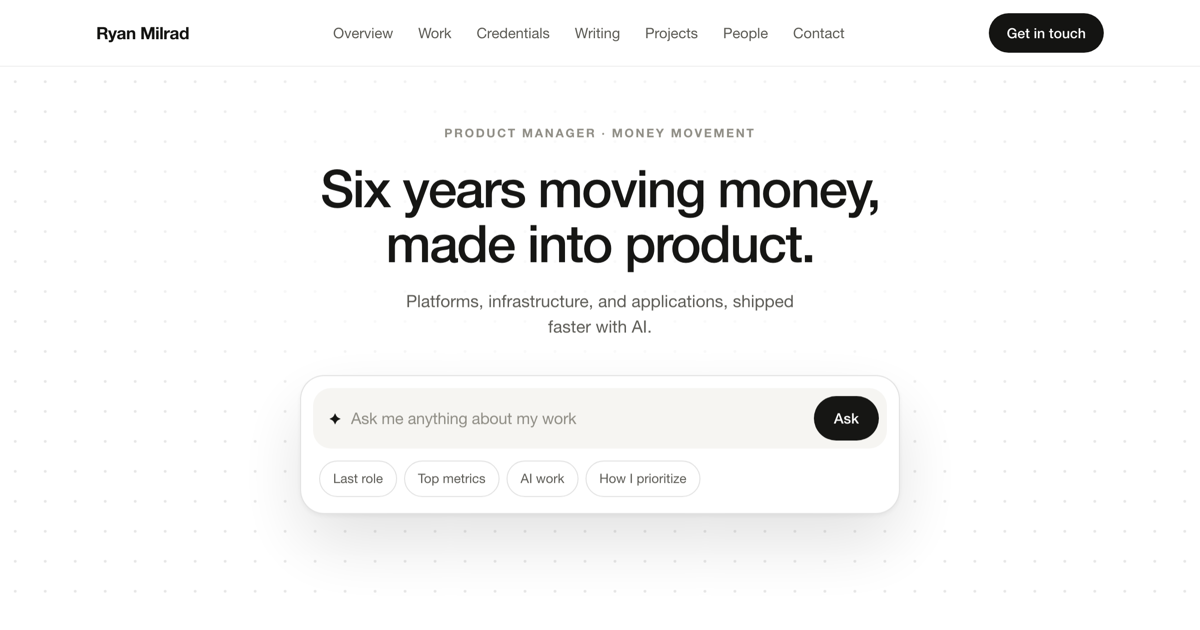
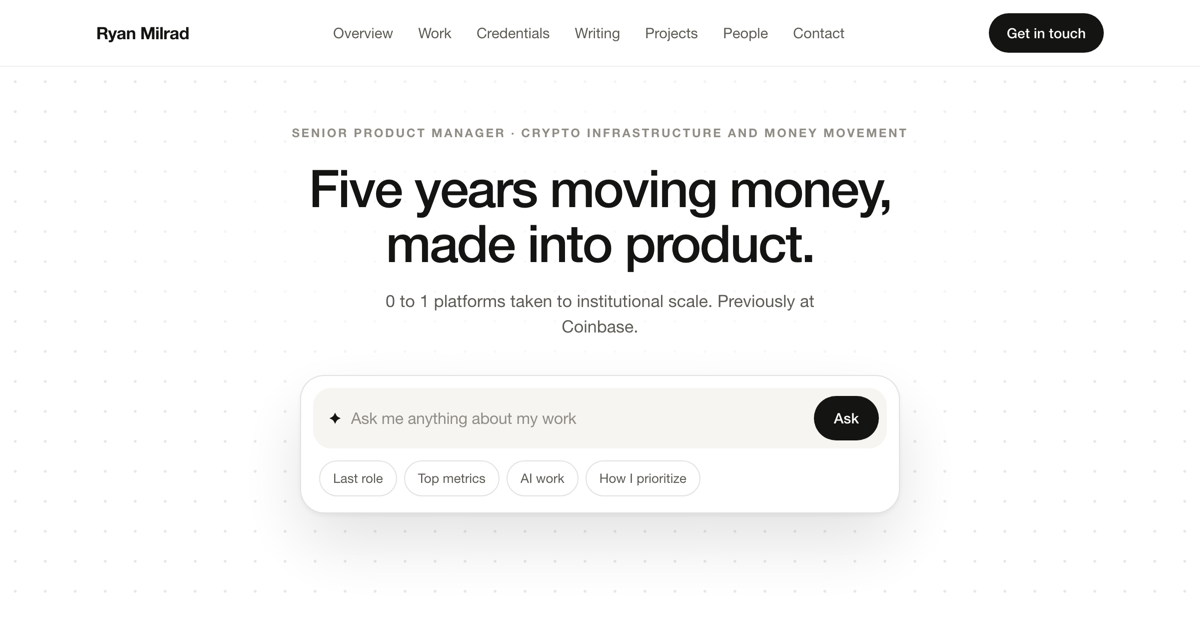
Sync site to revamped LinkedIn positioning
Audit-driven consistency pass so the site matches the new profile:
- Positioning: hero, role, meta all now Senior Product Manager, crypto
  infrastructure and money movement, 0 to 1 to institutional scale,
  ex Coinbase. Regenerated the og:image share card to match.
- Numbers: five years (was six), Hemi acquisition 100K (was 200K),
  MiCA users 1.3M (was 1M+).
- Framing: removed "payments" and all "consumer app(s)" phrasing from
  the ask-box brain and work history; projects reframed as independent
  product development.
- Target: contact statement now "senior product role in crypto,
  fintech, or money movement."

Changed region(s): [[0.2467, 0.2714, 0.74, 0.3619], [0.2467, 0.181, 0.74, 0.2413], [0.3083, 0.4524, 0.6783, 0.5429]]

diff --git a/src/lib/assistant.ts b/src/lib/assistant.ts
@@ -22,7 +22,7 @@ type Entry = { k: string[]; a: string };
 const KB: Entry[] = [
   {
     k: ["who are", "yourself", "summary", "bio", "background", "introduce"],
-    a: "I'm Ryan, a product manager with **6+ years** across crypto infrastructure, payments, and fintech.\n\nBefore tech I was a professional chef. Then a computer science degree, then years living and working abroad, where I learned Spanish to fluency, which is how I met my wife. That path shows in how I work: calm under pressure, sharp communication, and an engineer's curiosity.\n\nMost recently at Coinbase I owned the core staking platform, the orchestration service moving customer funds from off chain to on chain across **8 assets**.",
+    a: "I'm Ryan, a senior product manager with **five years** across crypto infrastructure, money movement, and fintech.\n\nBefore tech I was a professional chef. Then a computer science degree, then years living and working abroad, where I learned Spanish to fluency, which is how I met my wife. That path shows in how I work: calm under pressure, sharp communication, and an engineer's curiosity.\n\nMost recently at Coinbase I owned the core staking platform, the orchestration service moving customer funds from off chain to on chain across **8 assets**.",
   },
   {
     k: ["last role", "current", "recent", "latest", "coinbase", "most recent", "staking"],
@@ -30,7 +30,7 @@ const KB: Entry[] = [
   },
   {
     k: ["metric", "impact", "number", "result", "achievement", "impactful", "proud", "top"],
-    a: "The numbers I'm proudest of:\n- **$15B** in assets migrated to new key management infrastructure\n- **$4.5B** in ETF funds flow, **$1B** of it in one launch's first 24 hours\n- **$24M** in live funds migrated in a single day by reframing a 16 week build\n- **$1B+** liquidity attracted to Hemi across **60+** integrations\n- **$180M** in at risk funds surfaced and recovered\n- **62%** faster integrations with an agentic MCP, **75%** with an LLM runbook\n- **0 to 200K+** users on Hemi's consumer apps",
+    a: "The numbers I'm proudest of:\n- **$15B** in assets migrated to new key management infrastructure\n- **$4.5B** in ETF funds flow, **$1B** of it in one launch's first 24 hours\n- **$24M** in live funds migrated in a single day by reframing a 16 week build\n- **$1B+** liquidity attracted to Hemi across **60+** integrations\n- **$180M** in at risk funds surfaced and recovered\n- **62%** faster integrations with an agentic MCP, **75%** with an LLM runbook\n- **0 to 100K+** users on Hemi's user facing apps",
   },
   {
     k: ["compan", "where", "worked", "history", "experience", "career"],
@@ -58,11 +58,11 @@ const KB: Entry[] = [
   },
   {
     k: ["hemi", "bridge", "tunnel", "l2", "launch", "liquidity", "cross chain", "wallet", "tvl"],
-    a: "At **Hemi**, a Bitcoin L2, I grew from PM to Senior PM owning the consumer surface and the bridge:\n- Drove **0 to 200K+** active accounts in six months\n- Led the cross chain bridge end to end: **$500M** facilitated in 2 weeks, **$1B+ TVL** within 3 months\n- The network launch attracted **$1B** in liquidity in 4 weeks across **60+** DeFi integrations\n- Lifted participation from **73% to 95%** with a proof of personhood app",
+    a: "At **Hemi**, a Bitcoin L2, I grew from PM to Senior PM owning the user facing surface and the bridge:\n- Drove **0 to 100K+** active accounts in six months\n- Led the cross chain bridge end to end: **$500M** facilitated in 2 weeks, **$1B+ TVL** within 3 months\n- The network launch attracted **$1B** in liquidity in 4 weeks across **60+** DeFi integrations\n- Lifted participation from **73% to 95%** with a proof of personhood app",
   },
   {
     k: ["miner", "pop", "wasm", "funnel", "drop off", "declin", "data story"],
-    a: "My favorite data story: a first of its kind consumer mining app, **2,000** daily users, participation declining **5%** week over week with no clear cause.\n\nCommunity feedback generated the hypotheses; funnel data told me which ones mattered. We shipped three fixes: wallet balance visibility, session reuse, and a clear path to starting funds. The decline reversed and the app peaked at **100K** unique miners, at one point **93%** of Bitcoin testnet3 traffic.\n\nFeedback tells you what hurts. Data tells you whether it matters.",
+    a: "My favorite data story: a first of its kind mining app, **2,000** daily users, participation declining **5%** week over week with no clear cause.\n\nCommunity feedback generated the hypotheses; funnel data told me which ones mattered. We shipped three fixes: wallet balance visibility, session reuse, and a clear path to starting funds. The decline reversed and the app peaked at **100K** unique miners, at one point **93%** of Bitcoin testnet3 traffic.\n\nFeedback tells you what hurts. Data tells you whether it matters.",
   },
   {
     k: ["sybil", "bot", "verification", "personhood", "demos", "integrity", "wau"],

diff --git a/src/data/profile.ts b/src/data/profile.ts
@@ -6,7 +6,7 @@
 
 export const profile = {
   name: "Ryan Milrad",
-  role: "Product Manager",
+  role: "Senior Product Manager",
   email: "ryanmilrad34@gmail.com",
   linkedin: "https://linkedin.com/in/ryan-milrad",
   github: "https://github.com/rmilrad",
@@ -18,7 +18,7 @@ export type Stat = { label: string; value: string; green?: boolean };
 export const stats: Stat[] = [
   { label: "Assets managed and secured", value: "$20B+" },
   { label: "Liquidity attracted to Hemi", value: "$1B+" },
-  { label: "Users protected under MiCA", value: "1M+" },
+  { label: "Users protected under MiCA", value: "1.3M" },
   { label: "Faster engineering integrations", value: "62%", green: true },
 ];
 
@@ -64,13 +64,13 @@ export const jobs: Job[] = [
   {
     id: "hemi",
     colors: { bg: "#fdeee5", hd: "#c2410c", tx: "#96522f", rows: "#f7e0d2", mk: "#ff5d22" },
-    headline: "Zero to 200K+ users on a new L2.",
+    headline: "Zero to 100K+ users on a new L2.",
     body:
       "A modular Layer 2 protocol bringing Bitcoin security and programmability to DeFi. I owned end to end product strategy, from UI and UX through the liquidity that followed.",
     role: "Senior Product Manager · Aug 2023 to May 2025",
     media: { kind: "scene" },
     bullets: [
-      "Directed the UI and UX for consumer applications, driving acquisition **0 to 200K+** in six months.",
+      "Directed the UI and UX for user facing products, driving acquisition **0 to 100K+** in six months.",
       "Attracted **$1B** in liquidity across **60+** partner integrations.",
       "Led the cross chain bridge and wallet integrations behind **$500M** in liquidity, including the Tunnel.",
       "Grew DAU **70%** over three months through funnel analysis.",
@@ -97,7 +97,7 @@ export const jobs: Job[] = [
     colors: { bg: "#edecfa", hd: "#4f46e5", tx: "#5f5a9e", rows: "#e0defa", mk: "#3383c4" },
     headline: "Where the engineering instinct started.",
     body:
-      "Consumer health and nutrition platform serving millions of members. I built NLP workflows in Python that cut catalog redundancy **68%**, working across Python, NLP, and SQL on the data science team.",
+      "A health and nutrition platform serving millions of members. I built NLP workflows in Python that cut catalog redundancy **68%**, working across Python, NLP, and SQL on the data science team.",
     role: "Data Science / ML Intern · Jun 2019 to Sep 2019",
     media: null,
     plx: 16,

diff --git a/index.html b/index.html
@@ -5,34 +5,34 @@
     <meta name="viewport" content="width=device-width, initial-scale=1.0" />
     <meta
       name="description"
-      content="Ryan Milrad, Product Manager. Money movement, financial infrastructure, and AI tooling."
+      content="Ryan Milrad, Senior Product Manager. Crypto infrastructure and money movement, 0 to 1 platforms to institutional scale, ex Coinbase."
     />
-    <title>Ryan Milrad, Product Manager</title>
+    <title>Ryan Milrad, Senior Product Manager</title>
     <link rel="canonical" href="https://rmilrad.github.io/" />
 
     <!-- Open Graph (LinkedIn, iMessage, Slack, Facebook) -->
     <meta property="og:type" content="website" />
     <meta property="og:site_name" content="Ryan Milrad" />
     <meta property="og:url" content="https://rmilrad.github.io/" />
-    <meta property="og:title" content="Ryan Milrad, Product Manager" />
+    <meta property="og:title" content="Ryan Milrad, Senior Product Manager" />
     <meta
       property="og:description"
-      content="Six years moving money, made into product. Platforms, infrastructure, and applications, shipped faster with AI."
+      content="Five years moving money, made into product. 0 to 1 crypto platforms taken to institutional scale. Previously at Coinbase."
     />
     <meta property="og:image" content="https://rmilrad.github.io/og.png" />
     <meta property="og:image:width" content="1200" />
     <meta property="og:image:height" content="630" />
     <meta
       property="og:image:alt"
-      content="Ryan Milrad, Product Manager. Six years moving money, made into product."
+      content="Ryan Milrad, Senior Product Manager. Five years moving money, made into product."
     />
 
     <!-- Twitter / X -->
     <meta name="twitter:card" content="summary_large_image" />
-    <meta name="twitter:title" content="Ryan Milrad, Product Manager" />
+    <meta name="twitter:title" content="Ryan Milrad, Senior Product Manager" />
     <meta
       name="twitter:description"
-      content="Six years moving money, made into product. Platforms, infrastructure, and applications, shipped faster with AI."
+      content="Five years moving money, made into product. 0 to 1 crypto platforms taken to institutional scale. Previously at Coinbase."
     />
     <meta name="twitter:image" content="https://rmilrad.github.io/og.png" />
   </head>

diff --git a/src/components/Overview.tsx b/src/components/Overview.tsx
@@ -10,7 +10,7 @@ export default function Overview() {
               <h2 className="reveal">Money movement's operator.<br />Billions in motion.</h2>
               <div className="ov-copy reveal">
                 <p>I deliver every piece of money movement in one product practice: funds flow, key management, compliance, and the AI tooling that ships it all faster.</p>
-                <p>Six years across companies like Coinbase, from first commit to institutional and international scale. Engineer's depth, product leader's instincts.</p>
+                <p>Five years across companies like Coinbase, from first commit to institutional and international scale. Engineer's depth, product leader's instincts.</p>
                 <a className="ov-cta" href="#work">See the work <span className="arw">→</span></a>
               </div>
             </div>

diff --git a/src/components/Hero.tsx b/src/components/Hero.tsx
@@ -128,9 +128,9 @@ export default function Hero() {
     <header className="hero" id="top" ref={heroRef}>
       <canvas ref={canvasRef} aria-hidden="true" />
       <div className="wrap">
-        <div className="eyebrow reveal">Product Manager · Money movement</div>
-        <h1 className="reveal">Six years moving money,<br />made into product.</h1>
-        <p className="hero-sub reveal">Platforms, infrastructure, and applications, shipped faster with AI.</p>
+        <div className="eyebrow reveal">Senior Product Manager · Crypto infrastructure and money movement</div>
+        <h1 className="reveal">Five years moving money,<br />made into product.</h1>
+        <p className="hero-sub reveal">0 to 1 platforms taken to institutional scale. Previously at Coinbase.</p>
 
         <div className="ask reveal">
           <form

diff --git a/src/components/Contact.tsx b/src/components/Contact.tsx
@@ -6,7 +6,7 @@ export default function Contact() {
       <div className="wrap">
         <div className="kicker reveal">Contact</div>
         <h2 className="reveal">Let's build something that moves.</h2>
-        <p className="lede reveal">Open to product leadership roles in fintech, crypto, and platform infrastructure.</p>
+        <p className="lede reveal">Open to a senior product role in crypto, fintech, or money movement.</p>
         <div className="reveal" style={{ display: "flex", gap: 12, marginTop: 26, flexWrap: "wrap" }}>
           <a className="btn btn-primary" href={`mailto:${profile.email}`}>Email me <span className="arw">→</span></a>
           <a className="btn btn-ghost" href={profile.linkedin} target="_blank" rel="noreferrer">LinkedIn</a>

diff --git a/src/components/Projects.tsx b/src/components/Projects.tsx
@@ -5,8 +5,8 @@ export default function Projects() {
     <section className="section tintband" id="projects">
       <div className="wrap">
         <div className="kicker reveal">Projects</div>
-        <h2 className="reveal">Things I'm building.</h2>
-        <p className="lede reveal">Engineering experiments where I build the institutional grade version myself, not just read about it. Open one for the demo.</p>
+        <h2 className="reveal">Independent product development.</h2>
+        <p className="lede reveal">I build the institutional grade version myself, solo and end to end, not just read about it. Open one for the demo.</p>
 
         <div className="pjc-grid reveal">
           {projects.map((p) => (
